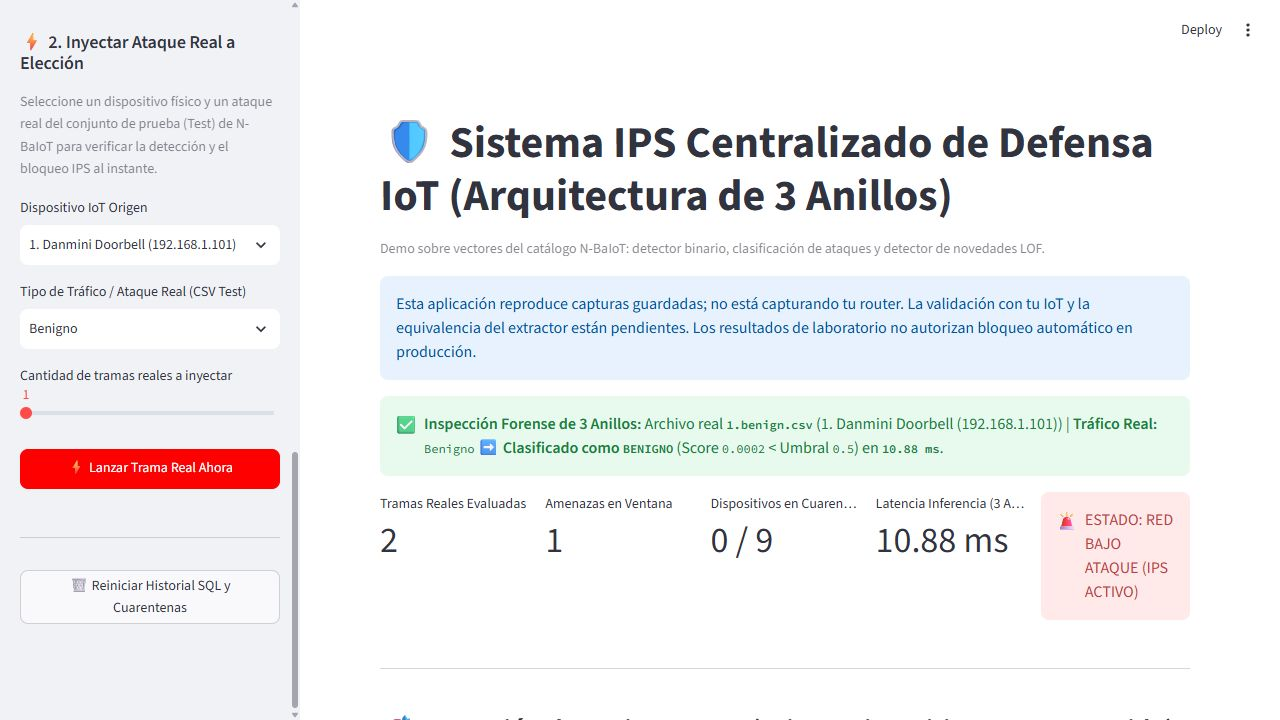
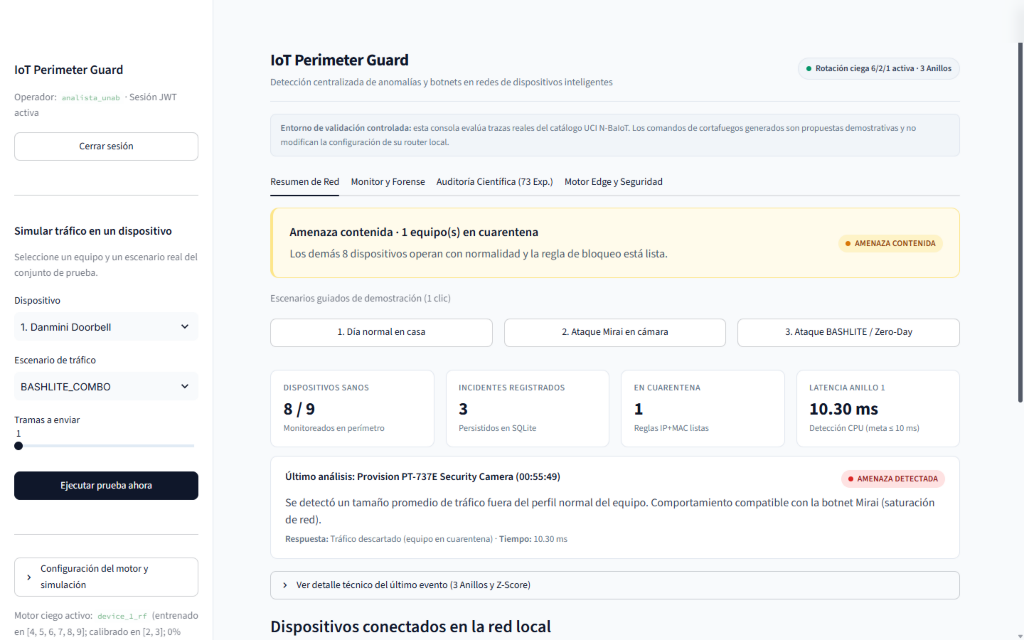
chore(ui): polish top header spacing, split Ring 1 latency KPI, and update dashboard screenshot

diff --git a/app/app.py b/app/app.py
@@ -75,9 +75,10 @@ def inject_minimal_css():
         header[data-testid="stHeader"] {
             background: rgba(248, 250, 252, 0.85);
             backdrop-filter: blur(8px);
+            height: 2.4rem;
         }
         .block-container {
-            padding-top: 1.8rem;
+            padding-top: 3.1rem;
             padding-bottom: 2.5rem;
             max-width: 1320px;
         }
@@ -762,6 +763,7 @@ def evaluate_and_record_packet(packet: dict) -> dict:
     dev_ip = str(packet.get("device_ip", DEVICE_IPS.get(dev_id, f"192.168.1.{100 + dev_id}")))
     dev_label = f"{dev_id}. {dev_name} ({dev_ip})"
 
+    t_ring1_start = time.perf_counter()
     if blind_lodo_enabled and dev_id in blind_lodo_candidates:
         cand_obj = blind_lodo_candidates[dev_id]
         cand_mdl = cand_obj["model"]
@@ -779,6 +781,7 @@ def evaluate_and_record_packet(packet: dict) -> dict:
         threshold = get_adaptive_threshold(dev_id, adaptive_enabled=adaptive_thr_enabled)
         pred_ring1 = 1 if prob >= threshold else 0
         eval_mode_label = selected_model_label
+    ring1_latency_ms = (time.perf_counter() - t_ring1_start) * 1000.0
 
     zeroday_flag = False
     if enable_zeroday_ring and zeroday_model is not None:
@@ -805,7 +808,8 @@ def evaluate_and_record_packet(packet: dict) -> dict:
     root_cause_str = extract_root_cause_zscores(
         feat_scaled[0], st.session_state.emulator.feature_cols, top_k=3
     )
-    latency_ms = (time.perf_counter() - t_start) * 1000.0
+    total_latency_ms = (time.perf_counter() - t_start) * 1000.0
+    latency_ms = ring1_latency_ms
     already_quarantined = dev_id in st.session_state.quarantined_devices
 
     if is_malicious:
@@ -850,6 +854,7 @@ def evaluate_and_record_packet(packet: dict) -> dict:
         "Explicación_Humana": translate_root_cause_human(root_cause_str, ai_predicted_attack),
         "Acción_IPS": action_str,
         "Latencia_ms": round(latency_ms, 2),
+        "Latencia_Total_3Anillos_ms": round(total_latency_ms, 2),
         "ZeroDay_Flag": zeroday_flag,
     }
     st.session_state.stream_data.append(record)
@@ -1057,9 +1062,9 @@ with tab_overview:
         )
     with k4:
         st.markdown(
-            f"""<div class="kpi-box"><div class="kpi-label">Tiempo de respuesta</div>
+            f"""<div class="kpi-box"><div class="kpi-label">Latencia Anillo 1</div>
             <div class="kpi-val">{st.session_state.last_latency_ms:.2f} ms</div>
-            <div class="kpi-sub">Inferencia CPU (meta ≤ 10 ms)</div></div>""",
+            <div class="kpi-sub">Detección CPU (meta ≤ 10 ms)</div></div>""",
             unsafe_allow_html=True,
         )
 
